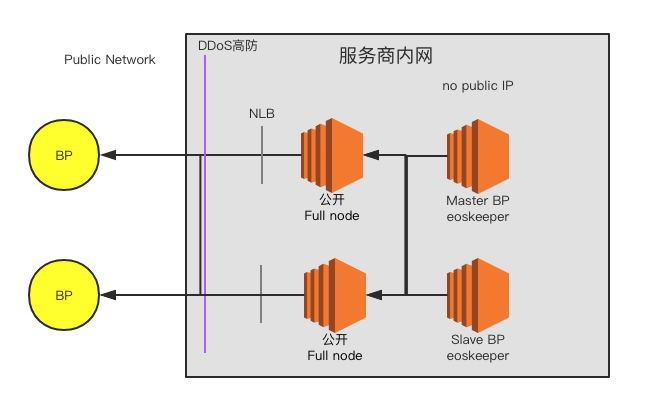
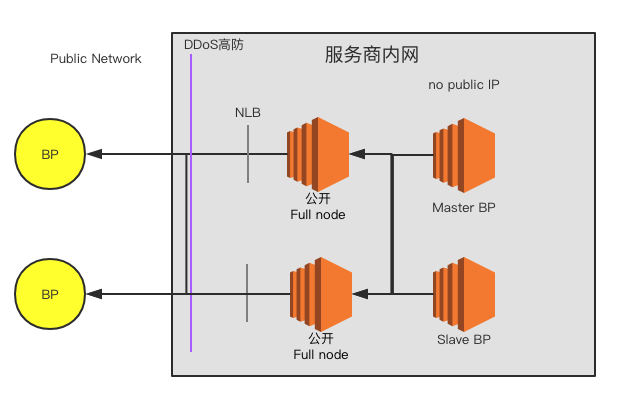
update architecture

Changed region(s): [[0.0, 0.06, 0.9759, 0.96], [0.061, 0.12, 0.244, 0.18], [0.6709, 0.18, 0.7929, 0.24]]

diff --git a/README.md b/README.md
@@ -2,7 +2,7 @@
 
 > by 慢雾安全团队 & Joinsec Team
 > 
-> 感谢 IMEOS.ONE, EOSAsia, EOS.Store 倾力相助
+> 感谢 IMEOS.ONE, EOS Asia, EOS Store 倾力相助
 
 ## 架构核心目标
 
@@ -28,9 +28,9 @@
 2. BP 通信多链路设计
 
 	- BP 服务器不在公网上暴露，通过跳板服务器（跳板服务器数量要大）进行通信；
-	- 在外网公布的跳板服务器大面积瘫痪时，通过私有网络（1.私有秘密节点 2.私有VPN链路）来同步区块
+	- 在外网公布的跳板服务器大面积瘫痪时，通过私有网络（1.私有秘密节点 2.私有 VPN 链路）来同步区块
 
-3. 防止全网扫描定位高防后的服务器，修改同步端口 9876 （同理RPC的8888）至全网最大存活数量的端口 80、443 或 22，这样可以有效抬高攻击者定位成本。
+3. 防止全网扫描定位高防后的服务器，修改同步端口 9876（同理 RPC 的 8888）至全网最大存活数量的端口 80、443 或 22，这样可以有效抬高攻击者定位成本。
 
 ## 推荐总架构
 
@@ -56,19 +56,19 @@
 
 ![Architecture](./images/arch-p2.png)
 
-当攻击者通过公开的节点列表攻击公开节点造成公开节点不可用时，则可通过私密节点进行通信。（私密节点可被全网扫描发现，所以并不完全安全）
+当攻击者通过公开的节点列表攻击公开节点造成公开节点不可用时，则可通过私密节点进行通信。（私密节点可被全网扫描发现，所以并不是完全安全）
 
 #### 3. VPN 加密节点（各可信节点间最后的秘密的通信信道）
 
-![Architecture](./images/arch-p4.png)
+![Architecture](./images/arch-p3.png)
 
-当公网节点都被发现，并且攻击者进行攻击导致对公网 Full node 服务器全部阻塞，最后则由私有VPN网络在隔离的虚拟内网内进行通信，保证最基础的出块正常。
+当公网节点都被发现，并且攻击者进行攻击导致对公网 full node 服务器全部阻塞，最后则由私有 VPN 网络在隔离的虚拟内网内进行通信，保证最基础的出块正常。
 
 #### 4. RPC API 节点
 
-![Architecture](./images/arch-p3.png)
+![Architecture](./images/arch-p4.png)
 
-查询用 RPC 所在 Full node 与 BP 完全隔离并架设防御，保证外网对 RPC 的攻击不能影响到 BP 。
+查询用 RPC 所在 full node 与 BP 完全隔离并架设防御，保证外网对 RPC 的攻击不能影响到 BP。
 
 
 ## 加固安全方案
@@ -77,32 +77,32 @@
 
 #### 1.1 屏蔽 RPC
 
-如无必要，建议禁止 RPC 对外访问，配置方法如下：
+如无必要，建议禁止 RPC 对外访问，`config.ini`配置内容如下：
 
 - 配置为空值`http-server-address =`
 - 注释`https-server-address`
 
 #### 1.2 开启 SSL
 
-如果确实需要对外提供 RPC 服务，建议禁用 HTTP 协议，使用 HTTPS，配置方法如下：
+如果确实需要对外提供 RPC 服务，建议禁用 HTTP 协议，使用 HTTPS，`config.ini`配置内容如下：
 
 - 注释`http-server-address`，或者配置为`127.0.0.1:8888`
-- 配置`https-server-address`为`0.0.0.0:9999`
+- 配置`https-server-address`为`0.0.0.0:443`
 - 配置`https-certificate-chain-file` 和 `https-private-key-file` 为证书链文件路径和私钥文件路径，注意两个文件格式必须为 PEM
 
 #### 1.3 禁用 `wallet_plugin` 和 `wallet_api_plugin`
 
-在对外提供 RPC 服务的场景下，**一定不要加载**`wallet_plugin` 和 `wallet_api_plugin`。如果加载了`wallet_plugin `，攻击者就可以通过 RPC API `/v1/wallet/list_keys` 获取解锁账户的私钥。此外，攻击者还可以恶意循环调用`/v1/wallet/lock_all`使节点上的账户无法解锁。
+在对外提供 RPC 服务的场景下，**一定不要加载** `wallet_plugin` 和 `wallet_api_plugin`。如果加载了`wallet_plugin` 和 `wallet_api_plugin`，攻击者就可以通过 RPC API `/v1/wallet/list_keys` 获取已解锁账户的私钥。此外，攻击者还可以恶意循环调用`/v1/wallet/lock_all`使节点上的账户无法解锁。
 
 #### 1.4 禁用`producer_api_plugin`
 
-在对外提供 RPC 服务的场景下，**一定不要加载**`producer_api_plugin `。如果加载了`producer_api_plugin `，攻击者就可以通过 RPC API `/v1/producer/pause` 远程控制节点停止生产。
+在对外提供 RPC 服务的场景下，**一定不要加载** `producer_api_plugin `。如果加载了`producer_api_plugin `，攻击者就可以通过 RPC API `/v1/producer/pause` 远程控制节点停止生产。
 
 ### 2. 配置安全
 
-#### 2.1 生成 active 多签密钥
+#### 2.1 生成 Active 多签密钥
 
-由于超级节点账户的公私钥明文配置在`config.ini`中，存在较大的风险，建议对这个账户生成 active 多签，提高资产转出门槛。举例如下：
+由于超级节点账户的公私钥明文配置在`config.ini`中，存在较大的风险，建议对这个账户生成 Active 多签，提高资产转出门槛。举例如下：
 
 ```
 授予 shrimp2 和 shrimp3 拥有 shrimp1 的权限
@@ -120,7 +120,7 @@ cleos set account permission shrimp1 active '{"threshold":1,"keys":[{"key":"EOS6
 
 #### 2.4 `max-clients`参数优化
 
-在配置文件中配置`max-clients = 0` 提升 P2P 端口并发连接数为无限制，同时优化`ulimit`等系统参数，增强恶意连接攻击承受能力。
+在配置文件中配置`max-clients = 0` 提升 P2P 端口并发连接数为无限制，同时优化`ulimit`系统参数和内核参数，增强恶意连接攻击承受能力。
 
 ### 3. 网络安全
 
@@ -132,7 +132,7 @@ cleos set account permission shrimp1 active '{"threshold":1,"keys":[{"key":"EOS6
 
 #### 3.2 云服务商
 
-经慢雾安全团队测试，Google Cloud Platform 和 Amazon Web Services 具有更好的抗DDoS攻击的性能，并且在DDoS攻击过后服务商不会临时封锁服务器，可以极为快速的恢复网络访问，推荐超级节点使用。（请谨慎选择云服务商，许多云服务商在遭遇 DDoS 等攻击时会直接关闭服务器）
+经慢雾安全团队测试，Google Cloud Platform 和 Amazon Web Services 具有更好的抗 DDoS 攻击的性能，并且在 DDoS 攻击过后服务商不会临时封锁服务器，可以极为快速的恢复网络访问，推荐超级节点使用。（请谨慎选择云服务商，许多云服务商在遭遇 DDoS 等攻击时会直接关闭服务器）
 
 #### 3.3 DDoS 防御
 
@@ -140,6 +140,6 @@ cleos set account permission shrimp1 active '{"threshold":1,"keys":[{"key":"EOS6
 
 ### 4. 主机安全
 
-- 防止全网扫描定位高防后的服务器，修改同步端口 9876 （同理RPC的8888）至全网最大存活数量的端口 80、443 或 22，这样可以有效抬高攻击者定位成本。
+- 防止全网扫描定位高防后的服务器，修改同步端口 9876 （同理 RPC 的 8888）至全网最大存活数量的端口 80、443 或 22，这样可以有效抬高攻击者定位成本。
 - 关闭不相关的其他服务端口，并在 AWS 或 Google cloud 上定制严格的安全规则。
-- 更改 SSH 默认的 22 端口，配置 SSH 只允许用 key （并对key加密）登录，禁止密码登录，并限制访问SSH端口的IP只能为我方运维IP。
+- 更改 SSH 默认的 22 端口，配置 SSH 只允许用 key （并对 key 加密）登录，禁止密码登录，并限制访问 SSH 端口的 IP 只能为我方运维 IP。
